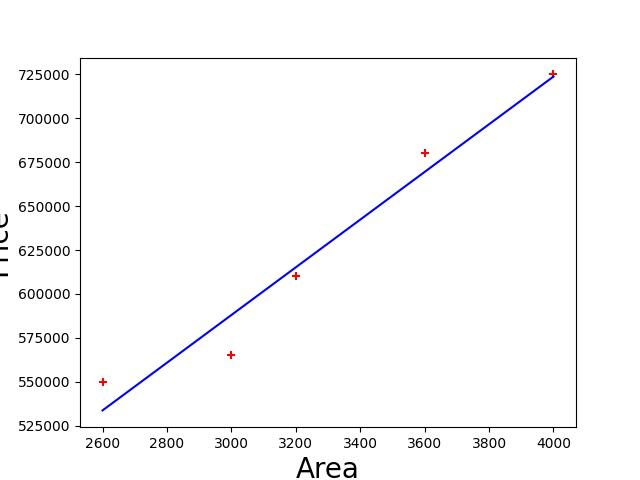
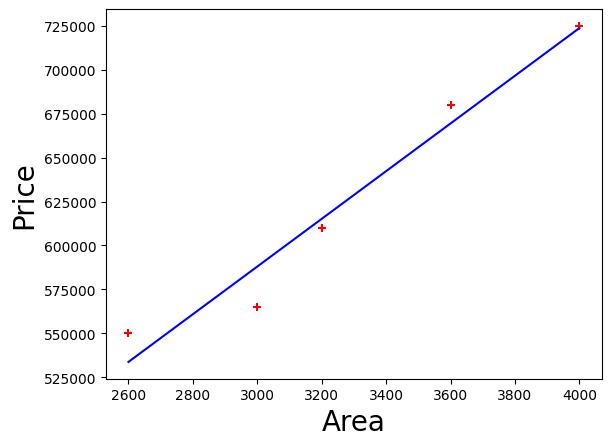
Linear Regression exercise.

diff --git a/ml_intro/linear_regression.py b/ml_intro/linear_regression.py
@@ -45,7 +45,7 @@ def basic_training():
     plt.ylabel('Price', fontsize=20)
     plt.scatter(dfl['area'], dfl['price'], color='red', marker='+')
     plt.plot(dfl['area'], regl.predict(dfl[['area']].values), color='blue')
-    plt.savefig('plots\\homeprices_prediction.jpg')
+    plt.savefig('plots\\homeprices_prediction.jpg', bbox_inches="tight")
 
     # Returning the regression model, so it can be used outside the function.
     return regl
@@ -53,10 +53,10 @@ def basic_training():
 
 if __name__ == '__main__':
     reg = basic_training()
-    dfl = pd.read_csv('data\\areas.csv')
+    df = pd.read_csv('data\\areas.csv')
 
-    price_prediction = reg.predict(dfl.values)
+    price_prediction = reg.predict(df.values)
 
     # Creating new column in the dataframe to assign the predicted prices to.
-    dfl['prices'] = price_prediction
-    dfl.to_csv("data\\areas_predicted_prices.csv", index=False)
+    df['prices'] = price_prediction
+    df.to_csv("data\\areas_predicted_prices.csv", index=False)

diff --git a/numpy/array_operations.py b/numpy/array_operations.py
@@ -1,5 +1,6 @@
 import numpy as np
 
+
 def basic_operations():
     # 2D array
     array1 = np.array([[1, 2], [3, 4], [5, 6]])
@@ -25,15 +26,15 @@ def basic_operations():
     print("\n-------------------------------")
 
     array3 = np.arange(1, 5)
-    print("\n", array3)
+    print("\narray3\n", array3)
 
     array4 = np.arange(1, 5, 2)  # Steps of 2
-    print("\n", array4)
+    print("\narray4\n", array4)
 
     array5 = np.linspace(1, 5, 10)  # Linearly spaced
-    print("\n", array5)
+    print("\narray5\n", array5)
 
-    print("Min: ", array5.min(), "\nMax: ", array5.max())
+    print("Min: ", array5.min(), "\nMax: ", array5.max(), "\n")
 
 
 def select_array_parts(a):
@@ -81,6 +82,7 @@ if __name__ == '__main__':
     # print("First 2 elements:", a[0:2])
 
     a = np.array([[6, 7, 8], [1, 2, 3], [9, 3, 2]])
+    # basic_operations()
     # select_array_parts(a)
     # iterating_examples(a)
 

diff --git a/exercises/ml/canada_capita.py b/exercises/ml/canada_capita.py
@@ -1,0 +1,23 @@
+import pandas as pd
+import numpy as np
+import matplotlib.pyplot as plt
+from sklearn import linear_model
+
+if __name__ == '__main__':
+    df = pd.read_csv("data\\canada_per_capita_income.csv")
+    print(df)
+
+    plt.plot(df['year'], df['per capita income (US$)'])
+    plt.xticks([1970, 1975, 1980, 1985, 1990, 1995, 2000, 2005, 2010, 2015, 2020])
+    plt.xlabel('Year')
+    plt.ylabel('Per Capita Income (US$)')
+    # plt.show()
+
+    reg = linear_model.LinearRegression()
+
+    year_reshape = df['year'].values.reshape(-1, 1)
+    reg.fit(year_reshape, df['per capita income (US$)'])
+
+    prediction = reg.predict([[2020]])
+    print("\nCapita in the year 2020: ", prediction)
+

diff --git a/matplotlib/pie_charts.py b/matplotlib/pie_charts.py
@@ -11,7 +11,7 @@ if __name__ == '__main__':
     plt.cla()
     plt.pie(exp_vals, labels=exp_labels,
             radius=1.2,  # Increase size.
-            autopct='%0.1f%%',  # Percentage. 0.1 means we want one decimal in our %. 0.2 for 2 amd so on.
+            autopct='%0.1f%%',  # Percentage. 0.1 means we want one decimal in our %. 0.2 for 2 and so on.
             # startangle=45,  # In case you want to rotate the pie by degrees.
             explode=[0, 0.2, 0, 0, 0.5]  # Split certain pieces of the pie from it. Specify distance.
             )
